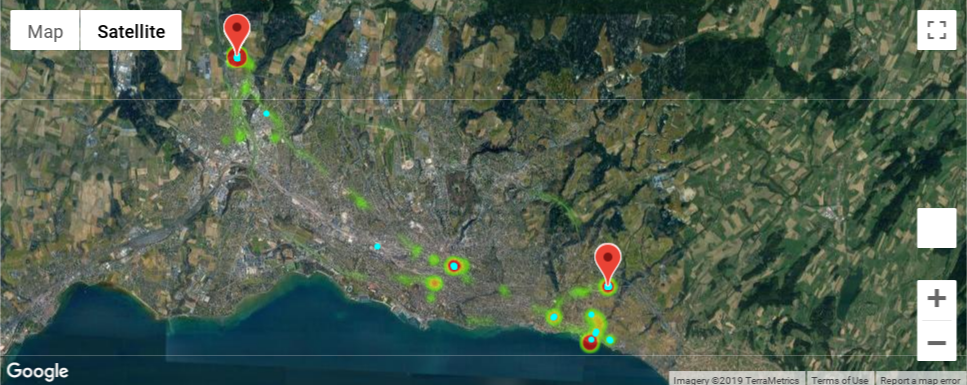
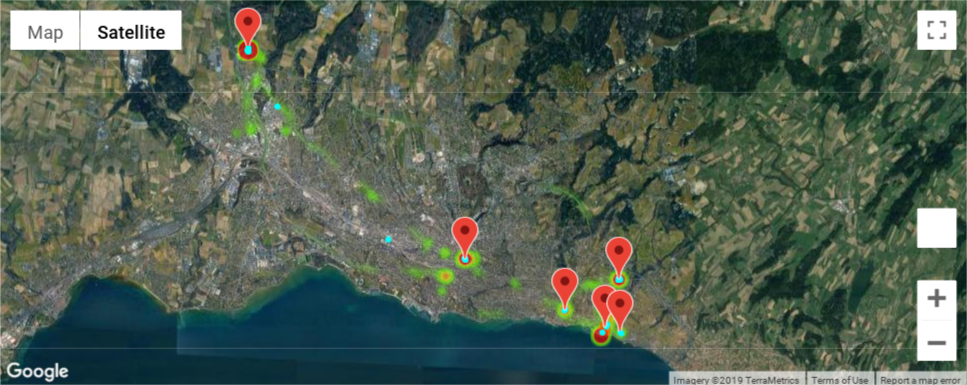
add more recent examples of maps

diff --git a/README.md b/README.md
@@ -4,7 +4,9 @@
 
 The WeNet project: diversity-aware, machine-mediated paradigm of social relations.
 
-![map example](./media/middle_level_map.png)
+![map example top level](./media/top_level_map.png)
+![map example middle level](./media/middle_level_map.png)
+![map example low level](./media/low_level_map.png)
 
 # Dev setup
 
